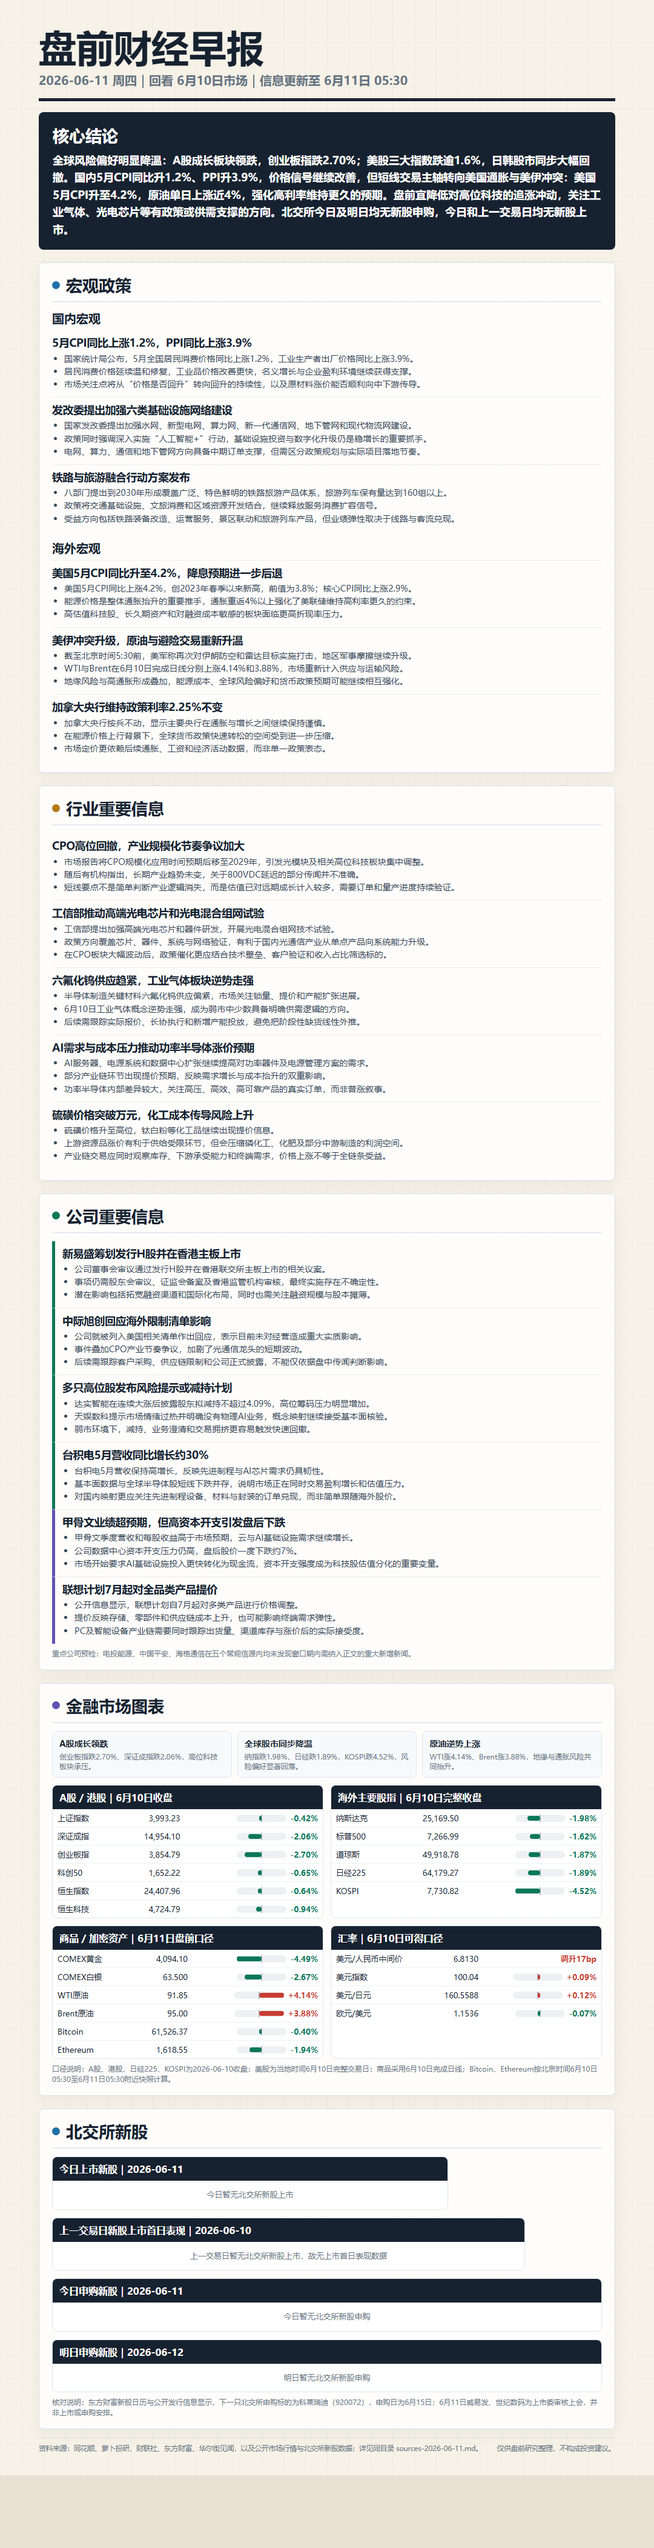
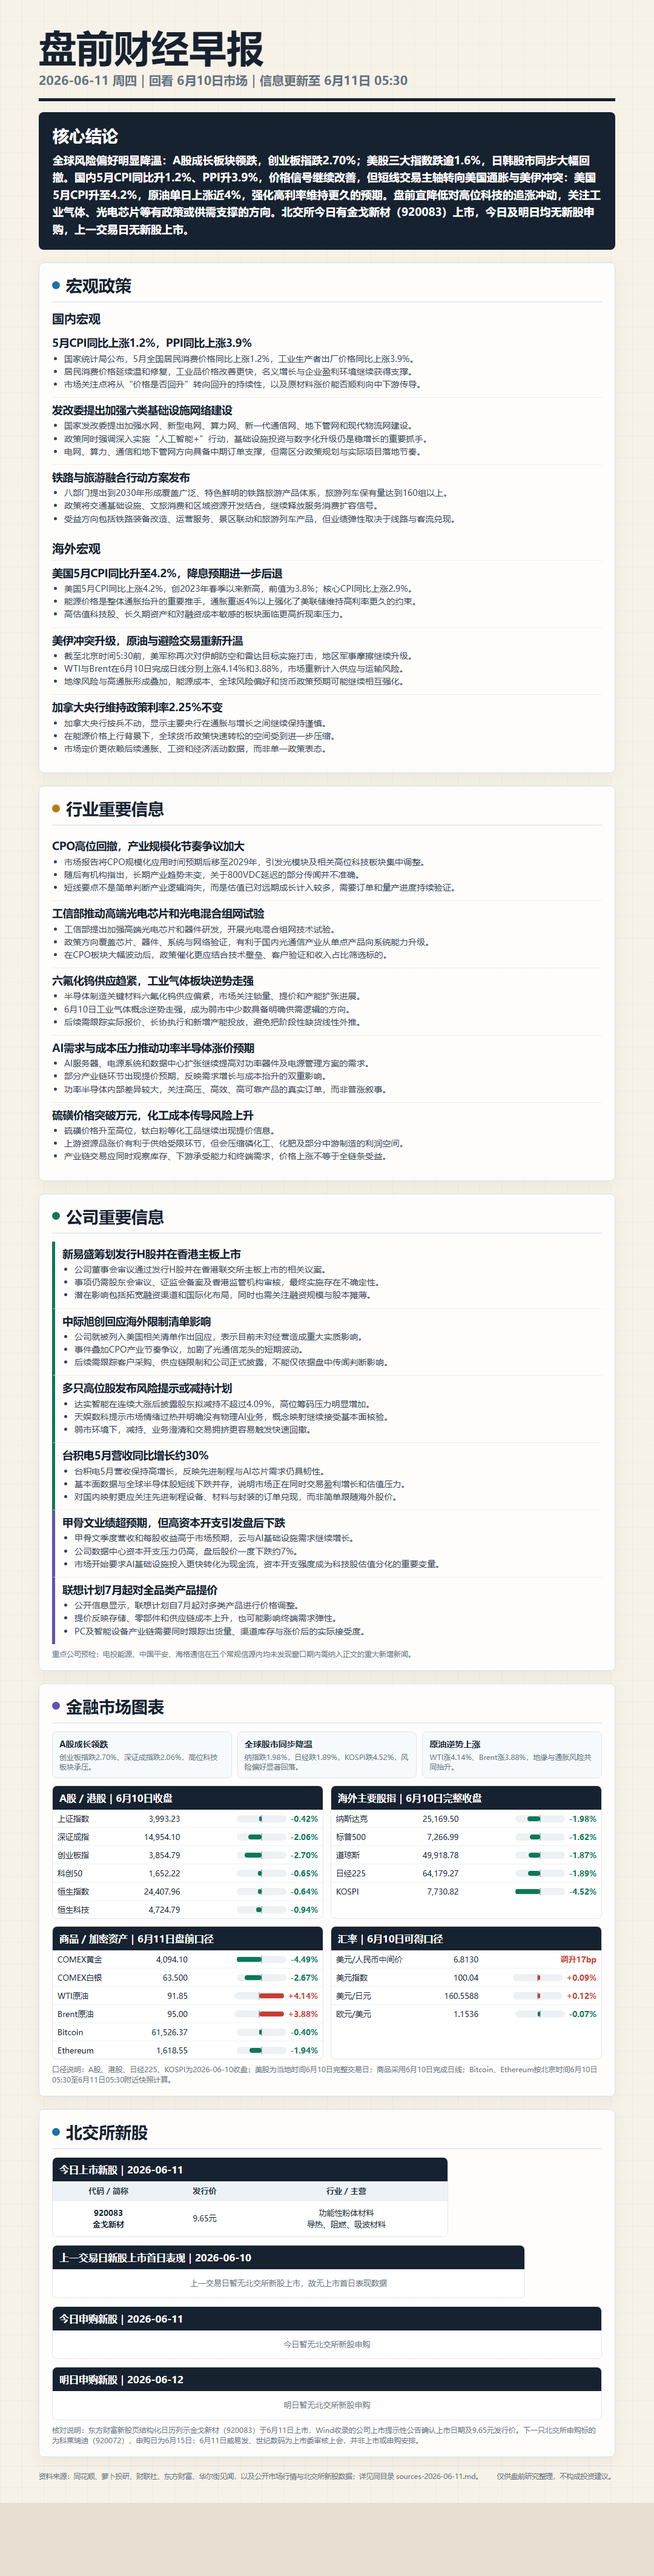
Publish 2026-06-11 morning brief

Changed region(s): [[0.0611, 0.0, 0.9472, 0.966], [0.2444, 0.0, 0.275, 0.0312]]

diff --git a/2026-06-11/report.html b/2026-06-11/report.html
@@ -23,7 +23,7 @@
 </head>
 <body><main class="sheet">
   <header><h1>盘前财经早报</h1><div class="date">2026-06-11 周四｜回看 6月10日市场｜信息更新至 6月11日 05:30</div></header>
-  <section class="lead"><h2>核心结论</h2><p>全球风险偏好明显降温：A股成长板块领跌，创业板指跌2.70%；美股三大指数跌逾1.6%，日韩股市同步大幅回撤。国内5月CPI同比升1.2%、PPI升3.9%，价格信号继续改善，但短线交易主轴转向美国通胀与美伊冲突：美国5月CPI升至4.2%，原油单日上涨近4%，强化高利率维持更久的预期。盘前宜降低对高位科技的追涨冲动，关注工业气体、光电芯片等有政策或供需支撑的方向。北交所今日及明日均无新股申购，今日和上一交易日均无新股上市。</p></section>
+  <section class="lead"><h2>核心结论</h2><p>全球风险偏好明显降温：A股成长板块领跌，创业板指跌2.70%；美股三大指数跌逾1.6%，日韩股市同步大幅回撤。国内5月CPI同比升1.2%、PPI升3.9%，价格信号继续改善，但短线交易主轴转向美国通胀与美伊冲突：美国5月CPI升至4.2%，原油单日上涨近4%，强化高利率维持更久的预期。盘前宜降低对高位科技的追涨冲动，关注工业气体、光电芯片等有政策或供需支撑的方向。北交所今日有金戈新材（920083）上市，今日及明日均无新股申购，上一交易日无新股上市。</p></section>
 
   <section class="section"><h2 class="section-title"><span class="dot"></span>宏观政策</h2>
     <h3 class="subhead">国内宏观</h3>
@@ -91,11 +91,11 @@
   </section>
 
   <section class="section"><h2 class="section-title"><span class="dot" style="background:var(--blue)"></span>北交所新股</h2>
-    <div class="ipo-box listing"><h3>今日上市新股｜2026-06-11</h3><table class="ipo-table"><tbody><tr><td class="empty">今日暂无北交所新股上市</td></tr></tbody></table></div>
+    <div class="ipo-box listing"><h3>今日上市新股｜2026-06-11</h3><table class="ipo-table"><thead><tr><th>代码 / 简称</th><th>发行价</th><th>行业 / 主营</th></tr></thead><tbody><tr><td class="codecell">920083<br>金戈新材</td><td>9.65元</td><td>功能性粉体材料<br>导热、阻燃、吸波材料</td></tr></tbody></table></div>
     <div class="ipo-box performance"><h3>上一交易日新股上市首日表现｜2026-06-10</h3><table class="ipo-table"><tbody><tr><td class="empty">上一交易日暂无北交所新股上市，故无上市首日表现数据</td></tr></tbody></table></div>
     <div class="ipo-box"><h3>今日申购新股｜2026-06-11</h3><table class="ipo-table"><tbody><tr><td class="empty">今日暂无北交所新股申购</td></tr></tbody></table></div>
     <div class="ipo-box"><h3>明日申购新股｜2026-06-12</h3><table class="ipo-table"><tbody><tr><td class="empty">明日暂无北交所新股申购</td></tr></tbody></table></div>
-    <div class="check-note">核对说明：东方财富新股日历与公开发行信息显示，下一只北交所申购标的为科莱瑞迪（920072），申购日为6月15日；6月11日威易发、世纪数码为上市委审核上会，并非上市或申购安排。</div>
+    <div class="check-note">核对说明：东方财富新股页结构化日历列示金戈新材（920083）于6月11日上市，Wind收录的公司上市提示性公告确认上市日期及9.65元发行价。下一只北交所申购标的为科莱瑞迪（920072），申购日为6月15日；6月11日威易发、世纪数码为上市委审核上会，并非上市或申购安排。</div>
   </section>
   <footer><div>资料来源：同花顺、萝卜投研、财联社、东方财富、华尔街见闻，以及公开市场行情与北交所新股数据；详见同目录 sources-2026-06-11.md。</div><div>仅供盘前研究整理，不构成投资建议。</div></footer>
 </main></body></html>

diff --git a/2026-06-11/sources-2026-06-11.md b/2026-06-11/sources-2026-06-11.md
@@ -73,8 +73,15 @@
 
 ### 今日上市新股｜2026-06-11
 
-- 东方财富新股日历及公开检索未列示6月11日北交所上市标的；今日暂无。
+- 金戈新材（920083）于6月11日在北京证券交易所上市，发行价9.65元；主营导热、阻燃、吸波等功能性粉体材料。
+- 东方财富新股页内嵌结构化日历 `XingGuRiLi` 的2026-06-11记录明确列示：`ss:[{"code":"920083","name":"金戈新材"}]`。
+- Wind收录的《向不特定合格投资者公开发行股票并在北京证券交易所上市提示性公告》确认上市日期为2026年6月11日、证券代码920083、发行价格9.65元。
   - https://stock.eastmoney.com/newstock.html
+
+#### 更正说明
+
+- 原版本错误写为“今日暂无北交所新股上市”。原因是将申购日历和泛搜索未命中错误地当成上市分支的空值证据，且没有执行规范要求的上市公告交叉验证。
+- 此前引用的6月11日威易发、世纪数码上市委审核上会信息只属于审核日历，与金戈新材当日上市并不冲突。
 
 ### 上一交易日新股上市首日表现｜2026-06-10
 
@@ -102,7 +109,7 @@
 - 模板基准：`outputs/2026-06-04/morning-brief-2026-06-04.html`。
 - HTML沿用基准完整CSS及 `.sheet`、`.section`、`.market-grid`、`.ipo-box` 等结构。
 - PNG导出命令：`powershell -NoProfile -ExecutionPolicy Bypass -File .\scripts\export_png.ps1 -HtmlPath .\outputs\2026-06-11\morning-brief-2026-06-11.html`。
-- PNG导出结果：1080×4204，内容高度4084像素，文件大小687266字节。
-- 视觉核对：标题、宏观、行业、公司、四组市场表、北交所四段和页脚均完整；无截断、无异常底部留白，表格及涨跌颜色可读。
+- 更正后的PNG导出结果：1080×4249，内容高度4129像素，文件大小702944字节。
+- 更正后的视觉核对：核心结论已改为金戈新材今日上市；北交所表格完整展示代码、简称、发行价和主营行业；其余板块无截断、无错位及异常留白。
 - GitHub Pages首轮发布提交：`68ca0c9 Publish 2026-06-11 morning brief`，已推送至 `origin/main` 并部署成功。
 - 线上检查：日报页与PNG直链均返回HTTP 200；页面按钮“下载 PNG”“来源清单”“HTML 原稿”“返回首页”均为正常中文；线上PNG大小687266字节。
